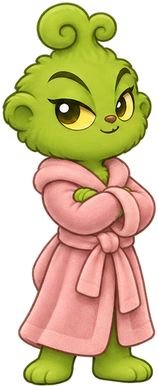
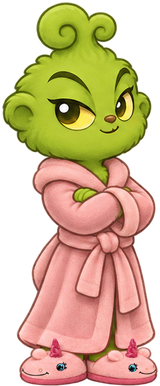
art: Гринч (СР3) в розовых тапочках и 10 новых игрушек РГ
Пять стадий СР3 перерезаны tools/slice-pets.py из нового листа; десять игрушек
нарезаны по сетке 5 × 2 из листа toys-2-v2 (обрезка по прозрачности, до 256 px).

diff --git a/CREDITS.md b/CREDITS.md
@@ -8,3 +8,5 @@
 | public/assets/pets/*.svg (болванки видов из спеки: львёнок, утёнок, цыплёнок, ягнёнок, совёнок, бегемотик; заменили PNG Kenney), public/assets/eggs/*.svg, room.svg, nest.svg, pile.svg, flies.svg, medkit.svg, toy.svg, grave.svg | собственные, генерирует tools/make-art.mjs | проект | CC0 (свободное использование) | — |
 | work/trailer/trailer.mp4 — трейлер игры (исходники tools/trailer/: trailer.html, music.py, render.mjs) | музыка и звуки — собственные, синтез numpy (tools/trailer/music.py); картинки — ассеты проекта выше; шрифт Nunito — Google Fonts | проект; шрифт — Vernon Adams, Cyreal, Jacques Le Bailly | музыка и звуки CC0; Nunito — SIL Open Font License 1.1 | https://fonts.google.com/specimen/Nunito |
 | public/assets/toys/bear.png, duck.png, top.png, cube.png, hedgehog.png — игрушки от РГ на ТВ (мишка, уточка, юла, кубик, мячик-ёжик); обрезаны по прозрачности и уменьшены до 256 px | сгенерированы Codex (встроенный `image_gen`, вход владельца через ChatGPT) мостом tools/agent-bridge, 05.11.2026 | проект | собственные, лицензий третьих лиц нет | — |
+| public/assets/pets/sr3-1.png … sr3-5.png — Гринч (СР3) в розовых тапочках по просьбе отдела: пять стадий нарезаны `tools/slice-pets.py` из нового листа assets/_raw/sr3-rost.png (прежний — sr3-rost-old.png) | правка прежнего листа встроенным `image_gen` по фото заказчика, 17.11.2026 | проект | для этой игры по заказу | — |
+| public/assets/toys/balloon.png, yoyo.png, plane.png, car.png, bubbles.png, drum.png, phone.png, bouncer.png, rocket.png, dumbbell.png — десять новых игрушек от РГ (шарик, йо-йо, самолётик, машинка, мыльные пузыри, барабан, телефон, попрыгунчик, ракета, гантелька); нарезаны по сетке 5 × 2 из листа assets/_raw/toys-2-v2.png, обрезаны по прозрачности, не больше 256 px | встроенный `image_gen` по образцу стиля assets/_raw/toys-ref.png (мост tools/agent-bridge, задание toys-2-20261117-retry), 17.11.2026 | проект | для этой игры по заказу | — |
